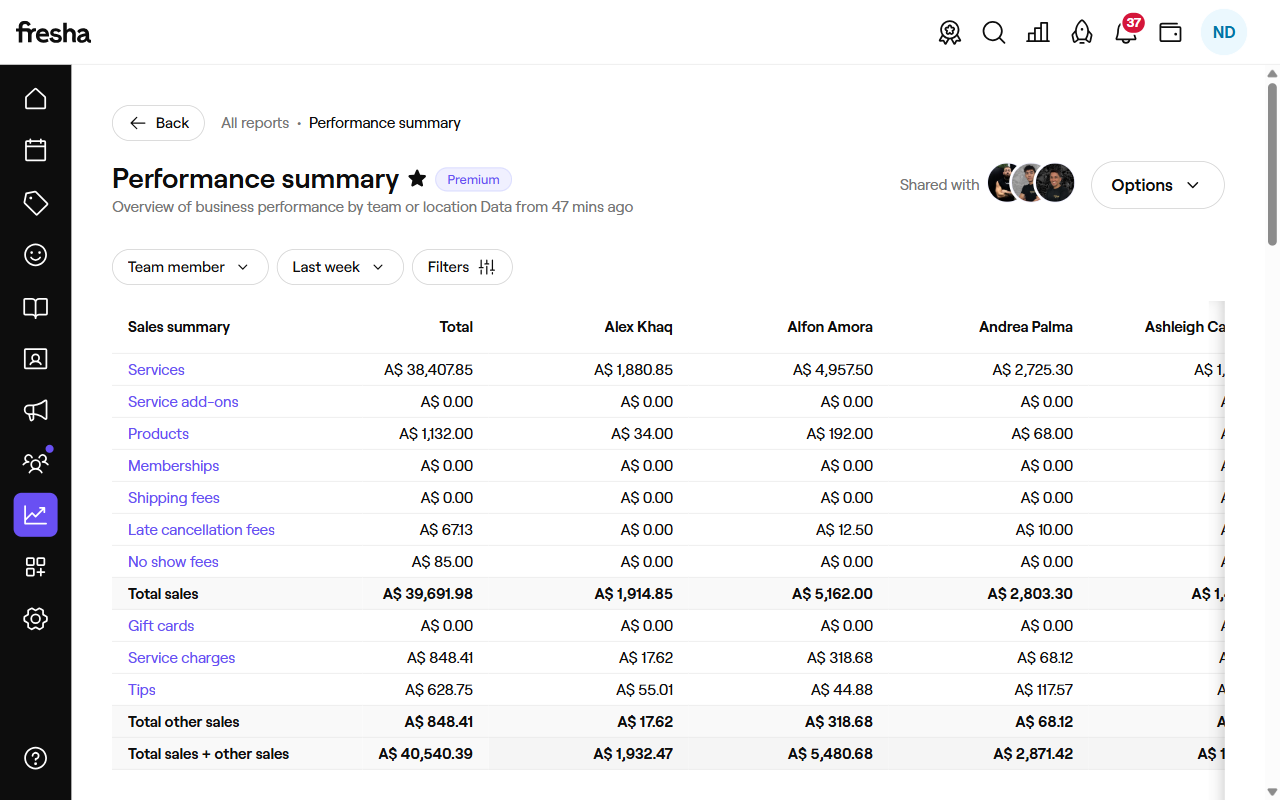
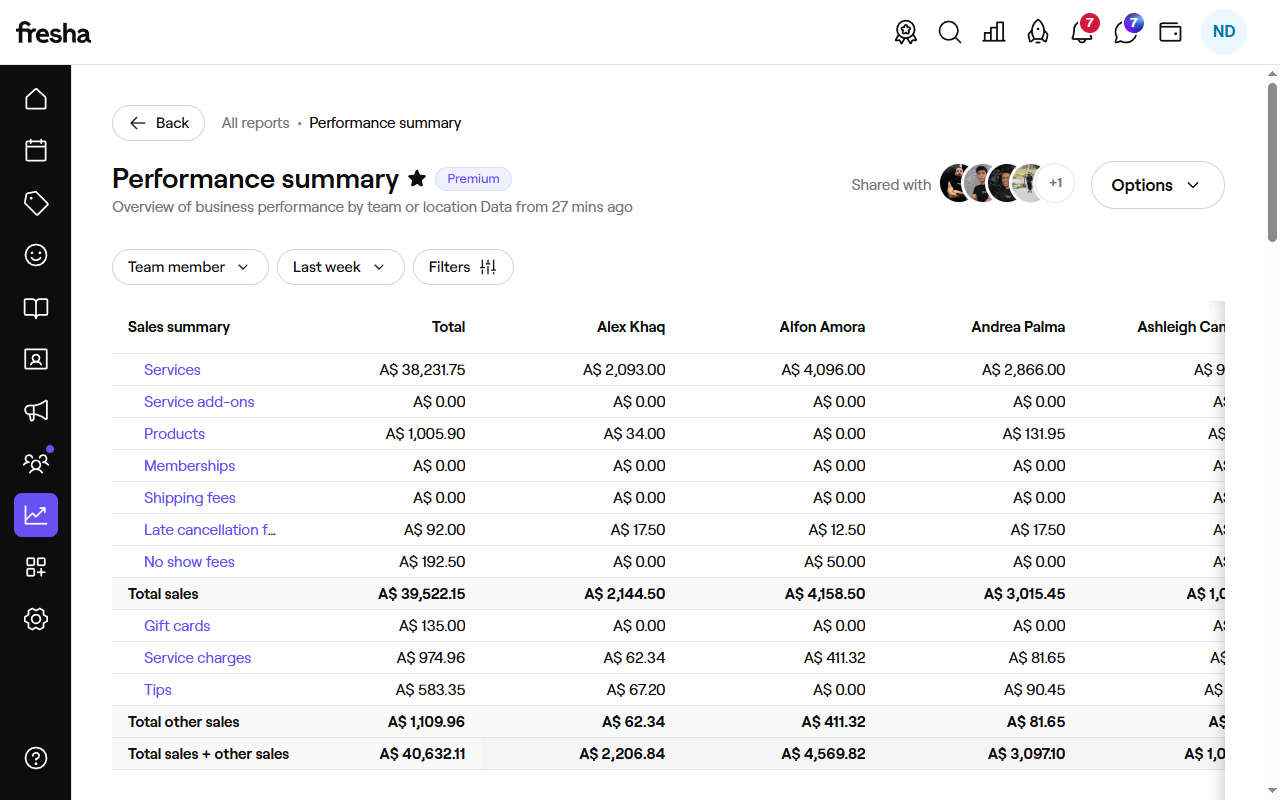
feat: manual-run checklist framework + refreshed local sync artifacts
Switch weekly_payroll.yml to manual-only (workflow_dispatch), and add a
per-step OK/FAIL/SKIP/FLAG checklist to weekly_sync.py covering login,
popups, CSV downloads, zero-value sales, and GHL/git push outcomes so a
manual run prints a copy-pasteable report at the end.

diff --git a/agent/weekly_sync.py b/agent/weekly_sync.py
@@ -21,6 +21,7 @@ import asyncio
 import json
 import os
 import smtplib
+import subprocess
 from datetime import datetime, timedelta, timezone
 from email import encoders as email_encoders
 from email.mime.base import MIMEBase
@@ -453,9 +454,97 @@ def ghl_upsert_location(location_name, week_start, week_end, location_label, ser
     raise Exception(f"GHL {r.status_code}: {r.text[:200]}")
 
 
+# ── Issue-detection checklist ───────────────────────────────────────────────────
+# Every notable click/login/download/push step gets recorded here as
+# OK / FAIL / SKIP / FLAG so the end-of-run report is a copy-pasteable
+# checklist of exactly what happened, rather than a wall of print() output.
+
+async def _try_click(checklist, name, click_coro, required=False):
+    """Await a click action and record the outcome on the checklist.
+
+    required=True means this step is essential (e.g. the actual sign-in
+    button) — failure raises so the caller's error handling kicks in.
+    required=False means it's an optional dismissal (cookie banners, modals
+    that may or may not appear) — failure is recorded as SKIP, not an error.
+    """
+    try:
+        await click_coro
+        checklist.append({"check": name, "status": "OK"})
+        return True
+    except Exception as e:
+        detail = str(e).splitlines()[0][:160]
+        checklist.append({"check": name, "status": "FAIL" if required else "SKIP", "detail": detail})
+        if required:
+            raise Exception(f"{name} failed: {detail}")
+        return False
+
+
+def flag_zero_value_issues(perf_data, locations, checklist):
+    """Flag suspicious zero totals so a silently-broken scrape doesn't get pushed unnoticed."""
+    summary = perf_data.get("sales_summary", {})
+    if summary.get("total_sales", 0) == 0:
+        checklist.append({
+            "check": "Weekly total_sales",
+            "status": "FLAG",
+            "detail": "Total sales = $0 for the week — verify the CSV covered the correct date range",
+        })
+    for s in perf_data.get("staff", []):
+        if (s.get("total_sales", 0) or 0) == 0 and (s.get("total_appts", 0) or 0) == 0:
+            checklist.append({
+                "check": f"Staff '{s.get('name')}' totals",
+                "status": "FLAG",
+                "detail": "Zero sales AND zero appointments — confirm this is expected, not a parse miss",
+            })
+    for loc in locations:
+        if (loc.get("total_sales", 0) or 0) == 0:
+            checklist.append({
+                "check": f"Location '{loc.get('name')}' totals",
+                "status": "FLAG",
+                "detail": "Zero total sales for the week",
+            })
+
+
+def git_commit_and_push(files, commit_message):
+    """Commit + push the given files from a local (non-CI) run. Returns a checklist item."""
+    repo_root = Path(__file__).parent.parent
+    try:
+        subprocess.run(["git", "add", *files], cwd=repo_root, check=True, capture_output=True, text=True)
+        staged = subprocess.run(["git", "diff", "--cached", "--quiet"], cwd=repo_root)
+        if staged.returncode == 0:
+            return {"check": "Git commit + push to GitHub", "status": "SKIP", "detail": "No changes to commit"}
+        subprocess.run(["git", "commit", "-m", commit_message], cwd=repo_root, check=True, capture_output=True, text=True)
+        subprocess.run(["git", "push"], cwd=repo_root, check=True, capture_output=True, text=True)
+        return {"check": "Git commit + push to GitHub", "status": "OK"}
+    except subprocess.CalledProcessError as e:
+        detail = (e.stderr or str(e)).strip().splitlines()[-1][:200] if (e.stderr or str(e)) else str(e)
+        return {"check": "Git commit + push to GitHub", "status": "FAIL", "detail": detail}
+
+
+def print_final_checklist(sync_results, push_status):
+    print("\n" + "=" * 60)
+    print("SYNC CHECKLIST")
+    print("=" * 60)
+    for r in sync_results:
+        print(f"\n[{r['label']}]  overall status: {r['status'].upper()}")
+        for item in r.get("checklist", []):
+            line = f"  [{item['status']}] {item['check']}"
+            if item.get("detail"):
+                line += f" -- {item['detail']}"
+            print(line)
+        if not r.get("checklist"):
+            print("  (no checklist items recorded)")
+    if push_status:
+        print(f"\n[GLOBAL]")
+        line = f"  [{push_status['status']}] {push_status['check']}"
+        if push_status.get("detail"):
+            line += f" -- {push_status['detail']}"
+        print(line)
+    print("=" * 60)
+
+
 # ── Fresha session login ───────────────────────────────────────────────────────
 
-async def ensure_logged_in(account, page, context):
+async def ensure_logged_in(account, page, context, checklist):
     session_file = account["session"]
     label        = account["label"]
 
@@ -463,30 +552,44 @@ async def ensure_logged_in(account, page, context):
     await page.wait_for_timeout(3000)
 
     if "/users/sign-in" not in page.url:
+        checklist.append({"check": "Fresha session valid (no login required)", "status": "OK"})
         return
 
     print("  Session expired. Logging in...")
     session_file.unlink(missing_ok=True)
+    checklist.append({"check": "Fresha session valid (no login required)", "status": "SKIP", "detail": "Session expired -- logging in"})
 
     email    = os.environ.get(account["email_env"], "")
     password = os.environ.get(account["pass_env"], "")
 
-    try:
-        await page.get_by_role("button", name="Accept all").click(timeout=5000)
-    except Exception:
-        pass
+    await _try_click(checklist, "Cookie banner 'Accept all' dismissed",
+                      page.get_by_role("button", name="Accept all").click(timeout=5000))
 
     email_field = page.locator('input[placeholder="Enter your email address"]')
-    await email_field.wait_for(timeout=10000)
-    await email_field.fill(email)
-    await page.click('[data-qa="continue"]', force=True)
-    await page.wait_for_selector('input[type="password"]:not([tabindex="-1"])', timeout=15000)
-    await page.locator('input[type="password"]:not([tabindex="-1"])').fill(password)
+    try:
+        await email_field.wait_for(timeout=10000)
+        await email_field.fill(email)
+        checklist.append({"check": "Email field found and filled", "status": "OK"})
+    except Exception as e:
+        checklist.append({"check": "Email field found and filled", "status": "FAIL", "detail": str(e).splitlines()[0][:160]})
+        raise Exception(f"Login failed for {label}: email field not found ({e})")
+
+    await _try_click(checklist, "'Continue' button clicked",
+                      page.click('[data-qa="continue"]', force=True), required=True)
 
     try:
-        await page.locator('button[type="submit"]').click(force=True, timeout=5000)
-    except Exception:
+        await page.wait_for_selector('input[type="password"]:not([tabindex="-1"])', timeout=15000)
+        await page.locator('input[type="password"]:not([tabindex="-1"])').fill(password)
+        checklist.append({"check": "Password field found and filled", "status": "OK"})
+    except Exception as e:
+        checklist.append({"check": "Password field found and filled", "status": "FAIL", "detail": str(e).splitlines()[0][:160]})
+        raise Exception(f"Login failed for {label}: password field not found ({e})")
+
+    submitted = await _try_click(checklist, "'Sign in' submit button clicked",
+                                  page.locator('button[type="submit"]').click(force=True, timeout=5000))
+    if not submitted:
         await page.keyboard.press("Enter")
+        checklist.append({"check": "Fallback Enter keypress used to submit sign-in", "status": "INFO"})
 
     print("  Waiting for 2FA (5 minutes)...")
     try:
@@ -495,15 +598,17 @@ async def ensure_logged_in(account, page, context):
         pass
 
     if "/users/sign-in" in page.url:
+        checklist.append({"check": f"Login completed for {label}", "status": "FAIL", "detail": "Still on sign-in page after 2FA wait (5 min)"})
         raise Exception(f"Login failed for {label}.")
 
+    checklist.append({"check": f"Login completed for {label}", "status": "OK"})
     await context.storage_state(path=str(session_file))
     print("  Session saved.")
 
 
 # ── Fresha performance CSV download ───────────────────────────────────────────
 
-async def download_performance_csvs(account, page, context, date_from_fallback, date_to_fallback):
+async def download_performance_csvs(account, page, context, checklist, date_from_fallback, date_to_fallback):
     label = account["label"]
     print(f"\n  [PERFORMANCE] Navigating to Performance Summary...")
 
@@ -517,30 +622,40 @@ async def download_performance_csvs(account, page, context, date_from_fallback, 
     print("  Dismissing any popups...")
     await page.keyboard.press("Escape")
     await page.wait_for_timeout(500)
+    dismissed_any = False
     for close_label in ("Close", "Dismiss", "Got it", "OK", "Done"):
-        try:
-            await page.get_by_role("button", name=close_label).click(timeout=1500)
+        clicked = await _try_click(checklist, f"Popup dismiss button '{close_label}' clicked",
+                                    page.get_by_role("button", name=close_label).click(timeout=1500))
+        if clicked:
+            dismissed_any = True
             print(f"  Dismissed popup: '{close_label}'")
             await page.wait_for_timeout(500)
-        except Exception:
-            pass
+    if not dismissed_any:
+        checklist.append({"check": "Popups present to dismiss", "status": "INFO", "detail": "None found -- page loaded clean"})
 
     print("  Selecting Last week...")
-    for label in ("Month to date", "Last week", "This week", "Last month"):
+    date_chip_clicked = False
+    for chip_label in ("Month to date", "Last week", "This week", "Last month"):
         try:
-            await page.get_by_text(label, exact=True).first.click(timeout=5000)
-            print(f"  Clicked date chip: '{label}'")
+            await page.get_by_text(chip_label, exact=True).first.click(timeout=5000)
+            print(f"  Clicked date chip: '{chip_label}'")
+            checklist.append({"check": f"Date range chip '{chip_label}' clicked", "status": "OK"})
+            date_chip_clicked = True
             break
         except Exception:
-            pass
+            continue
+    if not date_chip_clicked:
+        checklist.append({"check": "Date range chip clicked", "status": "FAIL", "detail": "None of the expected chip labels were found"})
     await page.wait_for_timeout(1000)
-    await page.locator('select:has(option[value="last_week"])').select_option(value="last_week")
+    try:
+        await page.locator('select:has(option[value="last_week"])').select_option(value="last_week")
+        checklist.append({"check": "'Last week' dropdown option selected", "status": "OK"})
+    except Exception as e:
+        checklist.append({"check": "'Last week' dropdown option selected", "status": "FAIL", "detail": str(e).splitlines()[0][:160]})
     await page.wait_for_timeout(1000)
 
-    try:
-        await page.get_by_role("button", name="Apply").click(timeout=5000)
-    except Exception:
-        pass
+    await _try_click(checklist, "'Apply' button clicked",
+                      page.get_by_role("button", name="Apply").click(timeout=5000))
 
     await page.wait_for_load_state("networkidle")
     await page.wait_for_timeout(10000)
@@ -557,14 +672,20 @@ async def download_performance_csvs(account, page, context, date_from_fallback, 
 
     # Team member CSV
     print("  Downloading team member CSV...")
-    async with page.expect_download(timeout=30000) as dl_info:
-        await page.get_by_role("button", name="Options").click(timeout=10000)
-        await page.wait_for_timeout(1500)
-        await page.get_by_role("menuitem", name="CSV").click(timeout=10000)
+    try:
+        async with page.expect_download(timeout=30000) as dl_info:
+            await page.get_by_role("button", name="Options").click(timeout=10000)
+            await page.wait_for_timeout(1500)
+            await page.get_by_role("menuitem", name="CSV").click(timeout=10000)
+        checklist.append({"check": "Team member CSV: Options -> CSV menu clicked", "status": "OK"})
+    except Exception as e:
+        checklist.append({"check": "Team member CSV: Options -> CSV menu clicked", "status": "FAIL", "detail": str(e).splitlines()[0][:160]})
+        raise
 
     download  = await dl_info.value
     csv_path  = DATA_DIR / f"fresha_report_{label.split()[0].lower()}_{datetime.now().strftime('%Y%m%d')}.csv"
     await download.save_as(str(csv_path))
+    checklist.append({"check": "Team member CSV downloaded", "status": "OK", "detail": csv_path.name})
     print(f"  Team member CSV saved: {csv_path.name}")
 
     # Location CSV
@@ -579,6 +700,7 @@ async def download_performance_csvs(account, page, context, date_from_fallback, 
         await page.get_by_text("Location", exact=True).click(timeout=5000)
         await page.wait_for_load_state("networkidle")
         await page.wait_for_timeout(6000)
+        checklist.append({"check": "Switched grouping to 'Location'", "status": "OK"})
 
         print("  Downloading location CSV...")
         async with page.expect_download(timeout=30000) as dl_info2:
@@ -589,8 +711,11 @@ async def download_performance_csvs(account, page, context, date_from_fallback, 
         dl2 = await dl_info2.value
         loc_csv_path = DATA_DIR / f"fresha_location_{label.split()[0].lower()}_{datetime.now().strftime('%Y%m%d')}.csv"
         await dl2.save_as(str(loc_csv_path))
+        checklist.append({"check": "Location CSV downloaded", "status": "OK", "detail": loc_csv_path.name})
         print(f"  Location CSV saved: {loc_csv_path.name}")
     except Exception as e:
+        detail = str(e).splitlines()[0][:160]
+        checklist.append({"check": "Location CSV downloaded", "status": "FAIL", "detail": detail})
         print(f"  WARNING: Could not download location CSV: {e}")
 
     await context.storage_state(path=str(account["session"]))
@@ -887,7 +1012,9 @@ async def run():
                 "perf_skipped": 0,
                 "staff":        [],
                 "csv_files":    [],
+                "checklist":    [],
             }
+            checklist = acct["checklist"]
 
             if not session_file.exists():
                 msg = f"{session_file.name} not found — account skipped"
@@ -914,7 +1041,7 @@ async def run():
 
             # ── Step 1: Check login, then fetch hours via API ─────────────────
             try:
-                await ensure_logged_in(account, page, context)
+                await ensure_logged_in(account, page, context, checklist)
             except Exception as e:
                 msg = f"Login failed: {e}"
                 print(f"  ERROR {msg}")
@@ -957,13 +1084,19 @@ async def run():
                 if err:
                     acct["status"] = "partial"
                 print(f"  Hours: {ok} pushed, {err} errors.")
+                checklist.append({
+                    "check": "GHL hours push",
+                    "status": "OK" if err == 0 else "FAIL",
+                    "detail": f"{ok} pushed, {err} errors" if err else None,
+                })
             elif not has_ghl:
                 print("\n  GHL_API_KEY not set -- skipping GHL hours push.")
+                checklist.append({"check": "GHL hours push", "status": "SKIP", "detail": "GHL_API_KEY not set"})
 
             # ── Step 2: Download performance CSVs (browser navigation) ────────
             try:
                 csv_path, loc_csv_path, date_from, date_to = await download_performance_csvs(
-                    account, page, context, date_from, date_to
+                    account, page, context, checklist, date_from, date_to
                 )
                 acct["csv_files"].append(csv_path)
                 if loc_csv_path:
@@ -1003,6 +1136,8 @@ async def run():
                     acct["issues"].append(msg)
                     if acct["status"] == "ok":
                         acct["status"] = "partial"
+
+            flag_zero_value_issues(perf_data, locations, checklist)
 
             # ── Step 3: Save JSON history for dashboard ───────────────────────
             perf_data["report_date"] = datetime.now().strftime("%Y-%m-%d")
@@ -1066,6 +1201,11 @@ async def run():
                 acct["perf_skipped"] = skipped
                 acct["staff"]        = staff_for_email
                 print(f"\n  Performance: {ok} updated, {skipped} skipped.")
+                checklist.append({
+                    "check": "GHL performance (tips/commissions) push",
+                    "status": "OK" if skipped == 0 else "FLAG",
+                    "detail": f"{ok} updated, {skipped} skipped (no matching payroll record)" if skipped else f"{ok} updated",
+                })
 
                 # ── Step 5: Push location_performance to GHL ──────────────────
                 if locations:
@@ -1091,6 +1231,14 @@ async def run():
                             print(f"    ERROR {loc_name}: {e}")
                             acct["issues"].append(f"Location GHL push failed for {loc_name}: {e}")
                     print(f"  Location records: {lok}/{len(locations)} pushed.")
+                    checklist.append({
+                        "check": "GHL location_performance push",
+                        "status": "OK" if lok == len(locations) else "FAIL",
+                        "detail": f"{lok}/{len(locations)} pushed",
+                    })
+
+            if acct["status"] == "ok" and any(item["status"] in ("FAIL", "FLAG") for item in checklist):
+                acct["status"] = "partial"
 
             await browser.close()
             sync_results.append(acct)
@@ -1110,6 +1258,18 @@ async def run():
         email_html = build_sync_email(w_start, w_end, sync_results)
         csv_files  = [f for r in sync_results for f in r.get("csv_files", [])]
         send_sync_email(email_html, w_start, w_end, has_issues, csv_files)
+
+    # ── Local manual run: commit + push results to GitHub ourselves ───────────
+    # (GitHub Actions runs already do this as a separate workflow step under
+    # CI=true, so this only fires for runs you trigger by hand on your machine.)
+    push_status = None
+    if os.environ.get("CI", "false").lower() != "true":
+        push_status = git_commit_and_push(
+            ["data/performance_summary.json", "data/cairns_performance_summary.json"],
+            f"chore: manual weekly sync {datetime.now().strftime('%Y-%m-%d')}",
+        )
+
+    print_final_checklist(sync_results, push_status)
 
 
 if __name__ == "__main__":